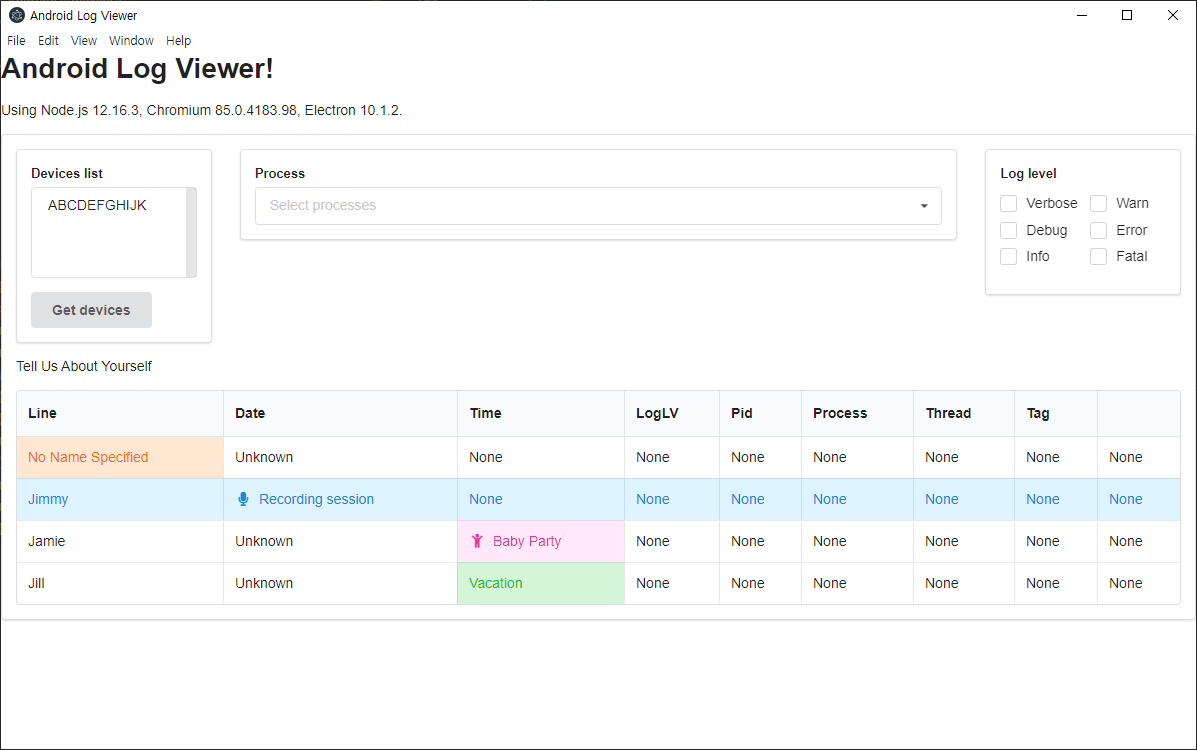
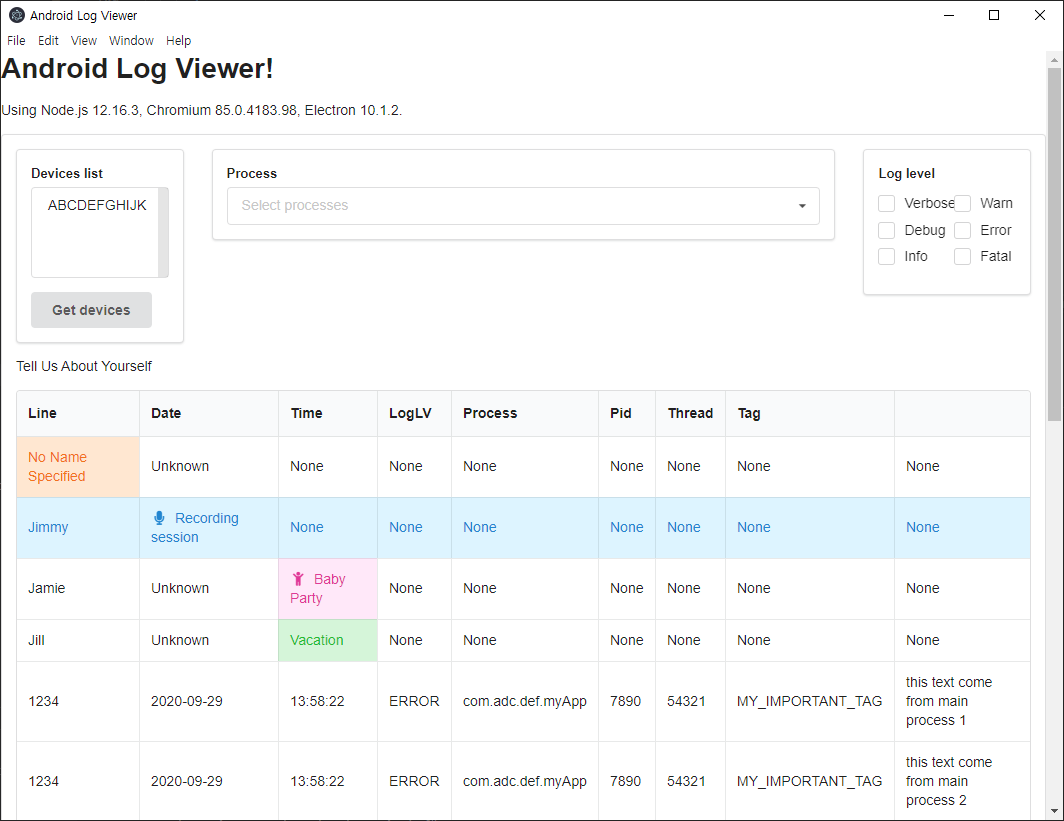
Tested to connect logcat.

diff --git a/renderer/index.html b/renderer/index.html
@@ -12,9 +12,9 @@
     <!-- normal script imports etc  -->
     <!-- You MUST include jQuery before Fomantic -->
     <!-- <link rel="stylesheet" type="text/css" href="./myfont.css"> -->
-    <script src="./dist/jquery.min.js"></script>
-    <link rel="stylesheet" type="text/css" href="./dist/semantic/semantic.css">
-    <script src="./dist/semantic/semantic.js"></script>
+    <script src="../dist/jquery.min.js"></script>
+    <link rel="stylesheet" type="text/css" href="../dist/semantic/semantic.css">
+    <script src="../dist/semantic/semantic.js"></script>
 
     <!-- Insert this line after script imports -->
     <script>if (window.module) module = window.module;</script>
@@ -95,15 +95,15 @@
       <p>Tell Us About Yourself</p>
 
 
-      <table class="ui celled table">
+      <table class="ui celled table" id="log_table">
         <thead>
         <tr>
           <th>Line</th>
           <th>Date</th>
           <th>Time</th>
           <th>LogLV</th>
+          <th>Process</th>          
           <th>Pid</th>
-          <th>Process</th>
           <th>Thread</th>
           <th>Tag</th>
           <th> </th>
@@ -169,7 +169,25 @@
 
     <!-- You can also require other files to run in this process -->
     <script src="./renderer.js"></script>
-    <script>
+    <script type="text/javascript">
+
+      function appendLog(entry) {
+        var log = entry.valueOf(LogcatLog)
+        // console.log(log)
+        var tr = $('<tr/>')
+        $('<td/>').text(log.line).appendTo(tr)
+        $('<td/>').text(log.date).appendTo(tr)
+        $('<td/>').text(log.time).appendTo(tr)
+        $('<td/>').text(log.log_lv).appendTo(tr)
+        $('<td/>').text(log.process).appendTo(tr)
+        $('<td/>').text(log.pid).appendTo(tr)
+        $('<td/>').text(log.thread).appendTo(tr)
+        $('<td/>').text(log.tag).appendTo(tr)
+        $('<td/>').text(log.text).appendTo(tr)
+
+        $('#log_table tbody').append(tr)
+      }
+
       $(document).ready(function(){
         $('.ui.dropdown').dropdown()
 
@@ -185,6 +203,9 @@
                 var optText = device.id
 
                 $('<option/>').val(optVal).text(optText).appendTo('#devices')
+
+                // TODO remove
+                myAdb.openLogcat(optVal, appendLog)
             }
 
           }).catch(function(err) {

diff --git a/main_process/main_myAdb.js b/main_process/main_myAdb.js
@@ -1,0 +1,62 @@
+const { LogcatLog } = require('../model/common.js')
+
+function init () {
+
+    var adb = require('adbkit')
+    var client = adb.createClient()
+
+    const { ipcMain } = require('electron')
+
+    ipcMain.on('getDevicesAsync', (event, arg) => {
+        console.log('getDevicesAsync called. arg=' + arg)
+
+        client.listDevices()
+            .then(function(devices) {
+            console.log('devices:', devices)
+            event.reply('getDevicesAsync-reply', devices)
+            })
+            .catch(function(err) {
+            console.error('Something went wrong:', err.stack)
+            })
+    })
+
+    ipcMain.on('openLogcatAsync', (event, arg) => {
+        var deviceId = arg
+        console.log('openLogcatAsync called. deviceId=' + deviceId)
+
+        var i = 1
+        function myLoop() {
+            setTimeout(function() {
+                var line = LogcatLog(1234, '2020-09-29', '13:58:22', 'ERROR', 'com.adc.def.myApp', 7890, 54321, 'MY_IMPORTANT_TAG',
+                    `this text come from main process ${i}`)
+                event.reply('openLogcatAsync-reply', line)
+                i++
+                if(i < 9999999) {
+                    myLoop()
+                }
+            }, 1000)
+        }
+
+        myLoop()
+    })
+}
+
+module.exports.init = init;
+
+/*
+readLine test code
+const readLine = require('readline')
+
+var reader  = readline.createInterface({
+    input: logcat.stream,
+    crlfDelay: Infinity
+})
+
+reader.on('line', line => {
+    console.log(`line= ${line}`)
+})
+
+reader.on('end', () => {
+    writable.end()
+})
+*/

diff --git a/renderer/renderer_myAdb.js b/renderer/renderer_myAdb.js
@@ -1,5 +1,3 @@
-const Struct = (...keys) => ((...v) => keys.reduce((o, k, i) => {o[k] = v[i]; return o} , {}))
-const AdbDevice = Struct('id', 'type')
 
 const { ipcRenderer } = require('electron')
 console.log(ipcRenderer.sendSync('synchronous-message', 'ping')) // prints "pong"
@@ -10,10 +8,18 @@ async function getDevices() {
     return new Promise(function(resolve, reject) {
 
         ipcRenderer.once('getDevicesAsync-reply', (event, arg) => {
-            resolve(arg);
+            resolve(arg)
         })
         ipcRenderer.send('getDevicesAsync', 'param_abcd')
     })
 }
+module.exports.getDevices = getDevices
 
-module.exports.getDevices = getDevices;
+function openLogcat(deviceId, callback) {
+
+    ipcRenderer.on('openLogcatAsync-reply', (event, arg) => {
+        callback(arg)
+    })
+    ipcRenderer.send('openLogcatAsync', deviceId)
+}
+module.exports.openLogcat = openLogcat

diff --git a/main_process/main.js b/main_process/main.js
@@ -9,15 +9,15 @@ function createWindow () {
     height: 600,
     webPreferences: {
       nodeIntegration: true, // TODO check if it should be false.
-      preload: path.join(__dirname, 'preload.js')
+      preload: path.join(__dirname, '../preload.js')
     }
   })
 
   // and load the index.html of the app.
-  mainWindow.loadFile('index.html')
+  mainWindow.loadFile('./renderer/index.html')
 
   // Open the DevTools.
-  mainWindow.webContents.openDevTools()
+  // mainWindow.webContents.openDevTools()
 }
 
 // This method will be called when Electron has finished

diff --git a/renderer/renderer.js b/renderer/renderer.js
@@ -9,4 +9,6 @@
 
 // need to set nodeIntegration true
 
+const { AdbDevice, LogcatLog } = require('../model/common.js')
+
 const myAdb = require('./renderer_myAdb.js')
